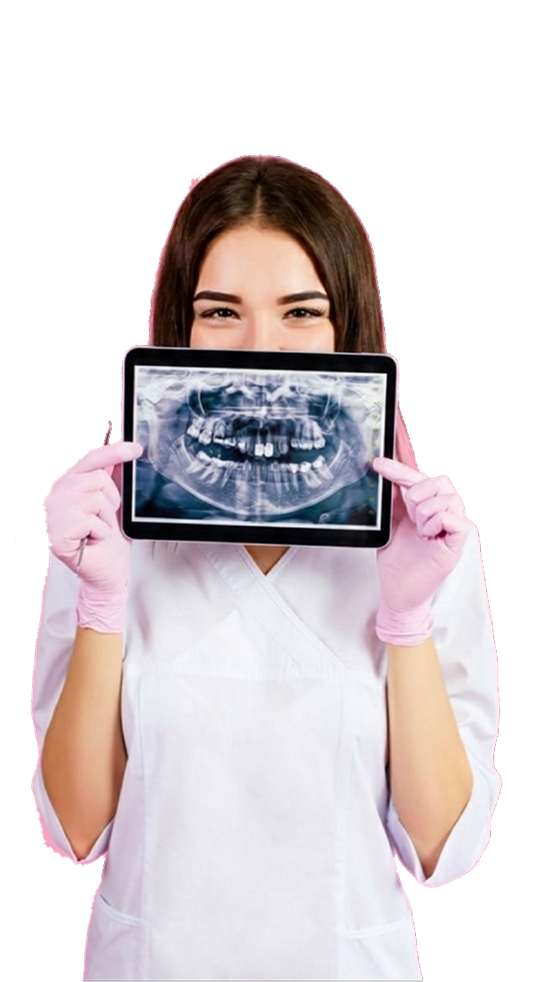
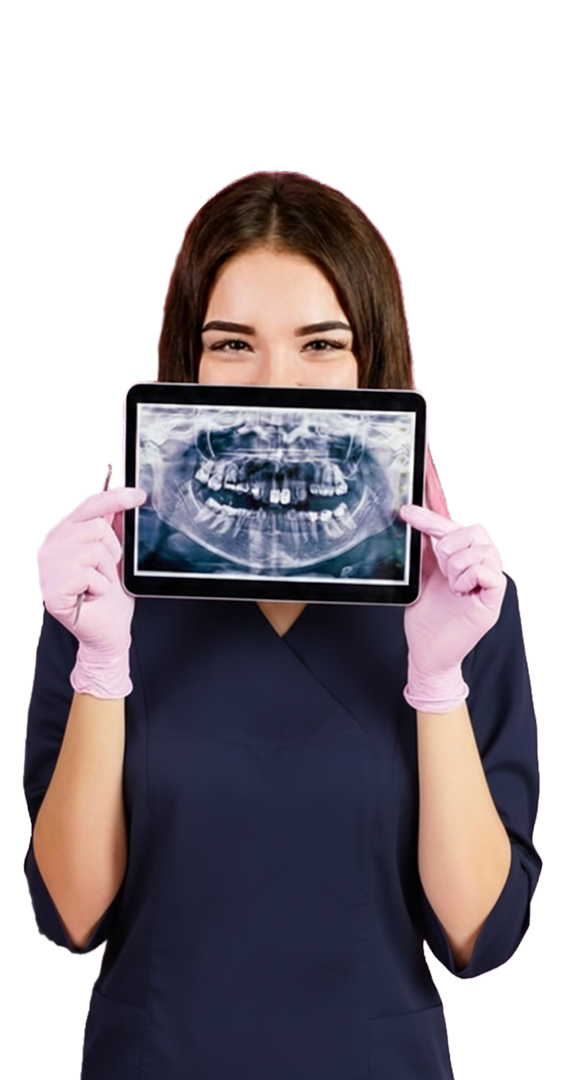
Changes

diff --git a/src/components/Hero.tsx b/src/components/Hero.tsx
@@ -1,7 +1,7 @@
 import { motion } from "framer-motion";
 import { Button } from "@/components/ui/button";
 import { MapPin } from "lucide-react";
-import heroImage from "@/assets/hero-girl-dark.png";
+import heroImage from "@/assets/hero-girl.png";
 import { Link } from "react-router-dom";
 
 const Hero = () => {
